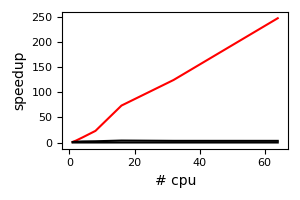
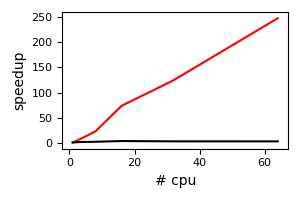
fixed speedup plots

diff --git a/benchmarks/plot_steps_per_atom.py b/benchmarks/plot_steps_per_atom.py
@@ -36,7 +36,7 @@ plt.savefig('steps_per_atom_per_time.png')
 plt.xlabel('# cpu')
 plt.tight_layout()
 
-plt.figure(1,figsize=size)
+plt.figure(2,figsize=size)
 plt.plot(data[:,0],data[:,0]/data[:,1],'r')
 
 plt.plot(data[:,0],data[0,1]*data[0,0]/data[:,1],'k')
